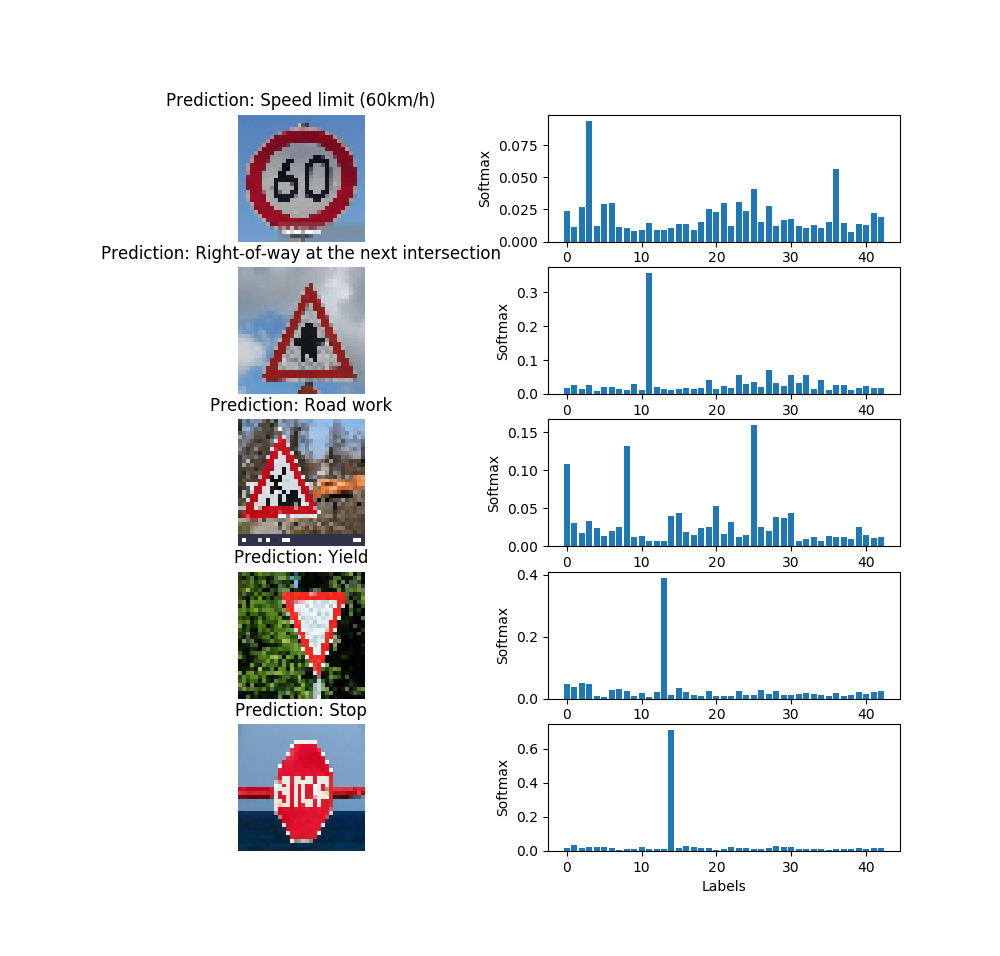
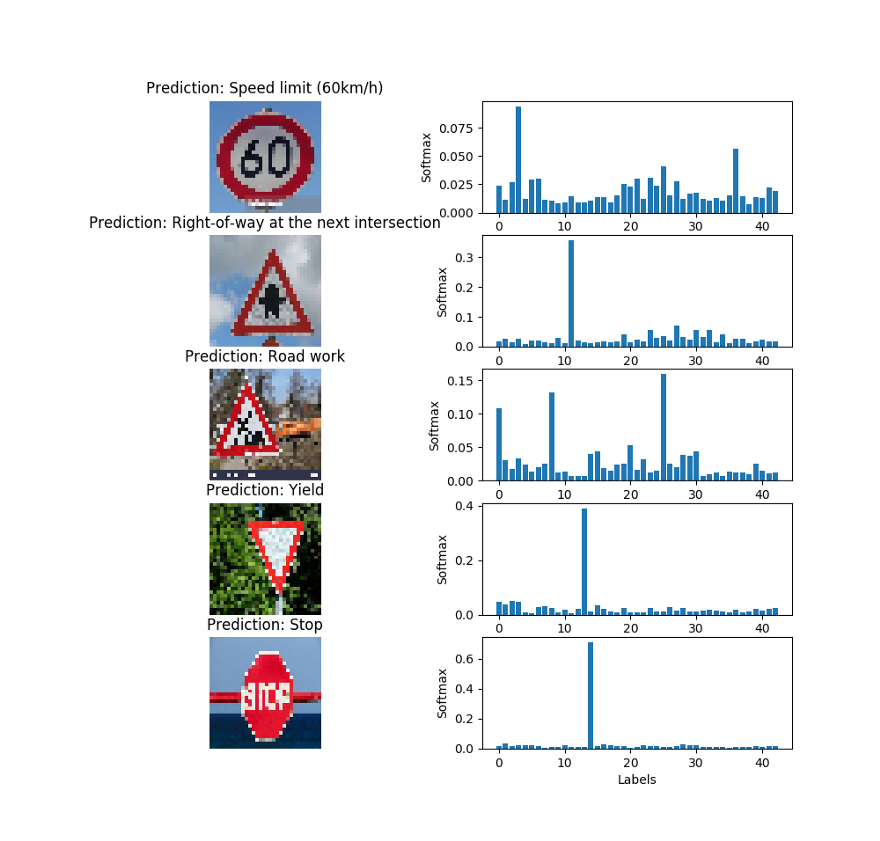
Restructured model for node selection instead of size selection

diff --git a/data_handler.py b/data_handler.py
@@ -9,7 +9,7 @@ from PIL import Image
 
 def get_images(folder):
     filelist = ['training-data', 'validation-data', 'test-data']
-    base = folder #+ 'minidata/'
+    base = folder + 'Nodedata/'
     for file in filelist:
         # Image folder
         imagefolder = base + file + '/small'
@@ -45,7 +45,6 @@ def write_contents_txt(file):
 
 def extract_images(folder):
     imagefolder = glob.glob(folder + '/*.png')
-    #image_list = np.array([np.array(Image.open(images)) for images in imagefolder])
     image_list = []
     for images in imagefolder:
         image = np.array(Image.open(images))
@@ -58,7 +57,8 @@ def extract_images(folder):
 def make_classlabels(list):
     labels = []
     for item in list:
-        label = item.split(".", 1)[0]
+        label = item.split("-", 1)[1]
+        label = label.split(".", 1)[0]
         labels.append(label)
     return labels
 

diff --git a/train.py b/train.py
@@ -25,7 +25,7 @@ from keras_preprocessing.image import ImageDataGenerator
 from model import ModelTreemap
 from data_handler import get_images
 
-BATCH_SIZE = 16
+BATCH_SIZE = 2
 
 def train(dataset, ckpt=None, output=None):
     """

diff --git a/model.py b/model.py
@@ -14,7 +14,7 @@ class ModelTreemap(ModelBase):
     """
 
     # Numbers of label to predict
-    NB_LABELS = 1000
+    NB_LABELS = 15
 
     def __init__(self, model_name, output_folder):
         """
